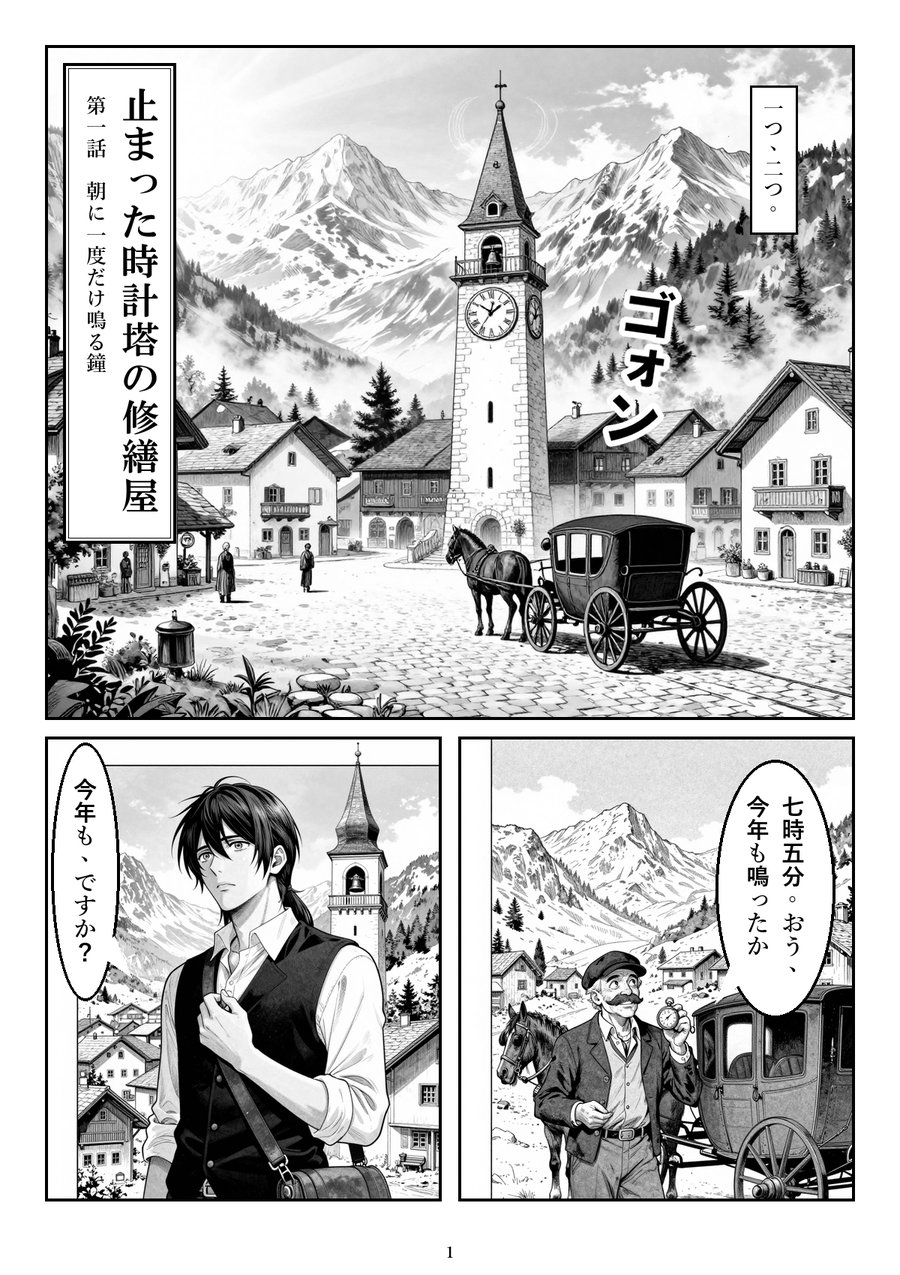
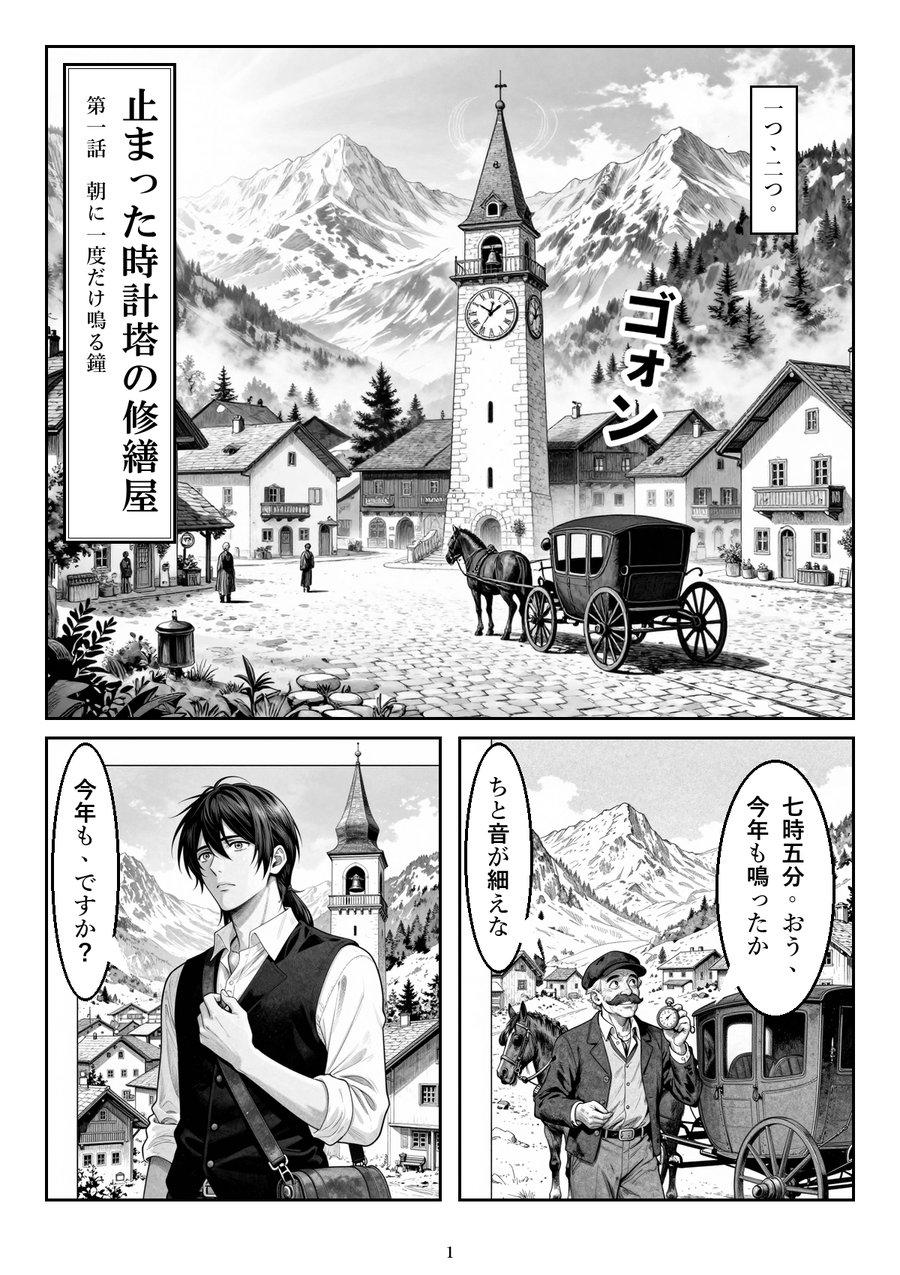
Request tips, attachments OK, pricing tiers (sample 1 page / quote), sample page restores foreshadowing line

Changed region(s): [[0.4978, 0.5812, 0.5911, 0.7647]]

diff --git a/index.html b/index.html
@@ -52,6 +52,7 @@ h2{font-size:30px;margin:0 0 20px}
 .steps b{display:block;font-size:18px;margin-bottom:4px}
 table.price{width:100%;border-collapse:collapse;background:#fff;border:2.5px solid var(--line)}
 table.price th,table.price td{border-bottom:1.5px solid #d6d3c9;padding:14px 12px;text-align:left;vertical-align:top}
+table.price th{width:9.5em}
 table.price td.yen{font-size:22px;font-weight:700;white-space:nowrap}
 table.price tr.free td.yen{color:var(--accent)}
 .small{font-size:14px;color:var(--sub)}
@@ -130,13 +131,13 @@ footer a{color:var(--sub)}
 </div></section>
 
 <section id="price"><div class="w">
-  <h2>料金（予定）</h2>
+  <h2>料金（予定・お見積り制）</h2>
   <table class="price">
     <tr class="free"><th>お試し（先着10名）</th><td class="yen">無料</td><td>原作の冒頭から1ページ（3〜5コマ）。白黒。</td></tr>
-    <tr><th>1ページ</th><td class="yen">1,500円</td><td>白黒・横読みのページ。セリフ入れ込み。</td></tr>
-    <tr><th>一話（8ページ前後の見込み）</th><td class="yen">12,000円</td><td>原作1話分（目安1万字まで）を、8ページ前後の見込みでまとめます。ページ数は内容で変わります。</td></tr>
+    <tr><th>有料サンプル（1ページ・受付開始前の予定）</th><td class="yen">1,500円</td><td>お好きな場面を1ページ（白黒・横読み）。お試しの後に、別の場面や絵柄を確かめたいときに。</td></tr>
+    <tr><th>2ページ以上・全話のご依頼（受付開始前の予定）</th><td class="yen">お見積り</td><td>原作の文字数と見込みのページ数、登場人物の数、ご要望（直しの回数・縦読み・カラー・お急ぎなど）を見て、作業の前にお見積りをお出しします。お見積りにご同意いただいてから作業を始めます。</td></tr>
   </table>
-  <p class="small">税込の予定額です。有料の受付はまだ始めていません。始めるときに、支払い方法と特定商取引法に基づく表記をこのページに載せます。</p>
+  <p class="small">税込の予定です。有料の受付はまだ始めていません。始めるときに、支払い方法と特定商取引法に基づく表記をこのページに載せます。当工房の1例では、原作約1万2千字のネームが8ページ分になりました（ページ数は内容で大きく変わります）。</p>
   <div class="box survey">
     <h3>参考：ココナラで調べた、人の作画による漫画化</h3>
     <ul>
@@ -152,10 +153,29 @@ footer a{color:var(--sub)}
   <h2>お試しの流れ</h2>
   <ol>
     <li>下のボタンから申し込む（メールアドレスと、作品の簡単な説明だけ）</li>
-    <li>こちらからメールで、原作の送り方をご案内します（冒頭5,000字まで）</li>
-    <li>1週間ほどで、1ページ分の画像をメールでお届けします（混み具合により前後します）</li>
+    <li>こちらからメールで、原作と設定の送り方をご案内します（ファイルの添付もできます）</li>
+    <li>1週間ほどで、冒頭の1ページ分の画像をメールでお届けします（混み具合により前後します）</li>
+    <li>続きをご希望なら、お見積りをお出しします（有料の受付開始後）</li>
     <li>ご希望の方だけ、このサイトの「お客様の作品」で紹介します（作品へのリンクも載せられます）</li>
   </ol>
+</div></section>
+
+<section id="request"><div class="w">
+  <h2>ご依頼のときにお願いしたいこと</h2>
+  <p>小説の漫画化でいちばん避けたいのは、あとで効いてくる伏線や、何気ない一言が抜け落ちることです。当工房の見本の制作時にも、御者の「ちと音が細えな」という一言を最初のネームで落としてしまい、作者の指摘で戻しました。この一言は、物語の大事な伏線だったからです。</p>
+  <div class="two">
+    <div class="box"><h3>おすすめ：全話まとめてのご依頼</h3><ul>
+      <li>漫画にするのが一部の話でも、できれば今ある全話の原稿をお送りください。全体を読んでから、伏線を落とさないネームを作ります</li>
+      <li>お試しで描くのは冒頭の1ページだけです。全話の原稿はお試しでも歓迎しますが、冒頭だけでもかまいません（全話のお送りは、主に有料のご依頼でのおすすめです）</li>
+      <li>何話分を何ページにしたいか、宣伝用か試し読みか、などの使い道も教えてください</li>
+    </ul></div>
+    <div class="box"><h3>あると助かるもの</h3><ul>
+      <li>キャラクター設定：年齢・髪・服・目印などの見た目、口調、人物どうしの関係</li>
+      <li>伏線のメモ：あとで回収する伏線、必ず残したいセリフや描写、まだ絵で見せたくないこと</li>
+      <li>設定資料・ラフ・参考の画像（お持ちの方だけ）</li>
+    </ul></div>
+  </div>
+  <p class="small">添付できるファイル：テキスト（.txt）・Word（.docx）・PDF・画像（.png・.jpg）。圧縮ファイル（.zip など）・実行ファイル・マクロ付きのファイルは開けません。メール1通あたり合計25MBまでです。</p>
 </div></section>
 
 <section id="fit"><div class="w">
@@ -181,7 +201,7 @@ footer a{color:var(--sub)}
     <li><b>細かい所が崩れることがあります。</b>手や小物はいくつか描いて良いものを選びますが、手描きと同じ精度ではありません。</li>
     <li><b>権利について：</b>お渡しした漫画は、宣伝や掲載などにお使いいただけます。ただし、AIで描いた部分に著作権が生じるかどうかは保証できません（文化庁「AIと著作権に関する考え方」では、人の創作的な関わりの程度で判断するとされています）。</li>
     <li><b>原作はご自身の作品に限ります。</b>他の方の作品や二次創作はお受けできません。</li>
-    <li><b>原稿の扱い：</b>ネームづくりのため、原稿の文章を Anthropic社（米国）の文章AI「Claude」に読み込ませます（入力を学習に使わない契約で利用）。絵は Hugging Face 上で公開されている画像AI（Z-Image）で描き、送るのは場面の説明（英語の短い指示）だけです。原稿の文章や、あなたのお名前・メールアドレスは送りません（登場人物の名前は、場面の説明に入ることがあります）。お預かりした原稿は作業以外に使わず、お届けから30日で削除します。</li>
+    <li><b>原稿の扱い：</b>ネームづくりのため、原稿の文章を Anthropic社（米国）の文章AI「Claude」に読み込ませます（入力を学習に使わない契約で利用）。絵は Hugging Face 上で公開されている画像AI（Z-Image）で描き、送るのは場面の説明（英語の短い指示）だけです。原稿の文章や、あなたのお名前・メールアドレスは送りません（登場人物の名前は、場面の説明に入ることがあります）。お送りいただいたメールと添付ファイルは、当工房の Gmail（Google のメールサービス）に保存されます。お預かりした原稿は作業以外に使わず、作業用の写しはお届けから30日で削除します。メールは最後のやりとりから1年で削除します。</li>
   </ul>
 </div></section>
 
@@ -205,7 +225,7 @@ footer a{color:var(--sub)}
   <h2>1ページ、無料で漫画にしてみませんか</h2>
   <p>開発中のため、先着10名さまに無料でお作りしています。</p>
   <a class="cta js-signup js-mail" href="mailto:endeavor0007@gmail.com">お試しを申し込む</a>
-  <p class="cta-note js-signup-note">メールで受け付けます。件名と、書いていただく3項目のひな形が入った状態で開きます</p>
+  <p class="cta-note js-signup-note">メールで受け付けます。件名と、書いていただく4項目のひな形が入った状態で開きます</p>
 </div></section>
 </main>
 
@@ -223,7 +243,7 @@ var SIGNUP_URL = "";
 var FORM_HREF = SIGNUP_URL ? SIGNUP_URL + (SIGNUP_URL.indexOf("?") < 0 ? "?" : "&") + "usp=pp_url" : "";
 // フォームが無い間は、件名と本文のひな形入りのメールを開く
 var MAIL = "mailto:endeavor0007@gmail.com?subject=" + encodeURIComponent("まんが化工房 お試しの申し込み") +
-  "&body=" + encodeURIComponent("・ペンネーム：\n・作品の題名と、掲載している場所（URLがあれば）：\n・漫画にしたい場面（冒頭／特定の話など）：\n\n※原稿はまだ送らないでください。送り方をこちらからご案内します。");
+  "&body=" + encodeURIComponent("・ペンネーム：\n・作品の題名と、掲載している場所（URLがあれば）：\n・作品の長さ（全何話・合計何字くらい）：\n・漫画にしたい場面（冒頭／特定の話など）と使い道（宣伝・試し読みなど）：\n\n※原稿や設定は、こちらから送り方をご案内した後にお送りください。");
 document.querySelectorAll(".js-mail").forEach(function (a) { a.href = MAIL; });
 document.querySelectorAll(".js-signup").forEach(function (a) {
   if (FORM_HREF) { a.href = FORM_HREF; a.target = "_blank"; a.rel = "noopener"; }

diff --git a/privacy.html b/privacy.html
@@ -16,18 +16,19 @@ li{margin-bottom:8px}
 <h1>プライバシーポリシー</h1>
 <p>まんが化工房（個人運営。以下「当工房」）は、個人情報とお預かりした原稿を次のとおり扱います。</p>
 <h2>1. 取得する情報</h2>
-<p>お申し込みでいただくメールアドレス・ペンネーム（任意）・作品の説明・有料での利用の意向。お試しや依頼の際にお預かりする原稿。</p>
+<p>お申し込みでいただくメールアドレス・ペンネーム（任意）・作品の説明・有料での利用の意向。お試しや依頼の際にお預かりする原稿・キャラクター設定・伏線のメモ・設定資料や参考の画像（メール本文または添付ファイル）。</p>
 <h2>2. 利用目的</h2>
 <p>お試しと依頼の作業、そのご連絡、サービス改善の検討のためだけに使います。</p>
 <h2>3. 原稿・漫画・メールの保管期間</h2>
-<p>お預かりした原稿は漫画化の作業以外に使わず、お届けから30日で削除します。お申し込みとやりとりのメールは、最後のやりとりから1年で削除します。できあがった漫画をこのサイトの「お客様の作品」で紹介するのは、メールで「紹介OK」のお返事をいただいた場合だけです。その場合に表示するのは、漫画の画像・ご指定の表示名（ペンネーム・作品名）・ご指定のリンク先だけで、メールアドレスや本名は表示しません。取り下げのご依頼があれば、速やかに消します（紹介の記録は、取り下げから1年で削除します）。紹介したページは公開されるため、検索サイトなどで見つかることがあります。掲載中に第三者が他所へ転載した分と、リンク先のサイトの内容・取り扱いについては、当工房では責任を負えません。</p>
+<p>お預かりした原稿・設定・添付ファイルは漫画化の作業以外に使わず、作業用の写しはお届けから30日で削除します。お申し込みとやりとりのメール（添付ファイルを含む）は、最後のやりとりから1年で削除します。できあがった漫画をこのサイトの「お客様の作品」で紹介するのは、メールで「紹介OK」のお返事をいただいた場合だけです。その場合に表示するのは、漫画の画像・ご指定の表示名（ペンネーム・作品名）・ご指定のリンク先だけで、メールアドレスや本名は表示しません。取り下げのご依頼があれば、速やかに消します（紹介の記録は、取り下げから1年で削除します）。紹介したページは公開されるため、検索サイトなどで見つかることがあります。掲載中に第三者が他所へ転載した分と、リンク先のサイトの内容・取り扱いについては、当工房では責任を負えません。</p>
 <h2>4. 作業の委託先と外国への提供</h2>
 <p>作業のため、次の外部サービスを使います。</p>
 <ul>
+<li>Google LLC（米国）のメールサービス「Gmail」：お申し込みとやりとりのメール、添付ファイルの受け取りと保存に使います。</li>
 <li>Anthropic, PBC（米国）の文章AI「Claude」：ネームづくりのため、原稿の文章を読み込ませます。入力を学習に使わない契約で利用します。</li>
 <li>Hugging Face, Inc.（米国）上で公開されている画像AI（Z-Image）：絵を描くため、場面の説明（英語の短い指示）だけを送ります。原稿の文章や、ご依頼者のお名前・メールアドレスは送りません（登場人物の名前は、場面の説明に入ることがあります）。</li>
 </ul>
-<p>原稿の文章は、上記のとおり外国（米国）にある事業者に、作業の委託として提供します。米国には、日本の個人情報保護法と同じ内容の包括的な法律はありません。Anthropic は個人情報の取り扱いの方針を公表しています（<a href="https://www.anthropic.com/legal/privacy" rel="noopener" target="_blank">Anthropic のプライバシーポリシー</a>）。原稿には、ご自身や他の方の個人情報を書かないでください。</p>
+<p>メールと添付ファイル、原稿の文章は、上記のとおり外国（米国）にある事業者（Google・Anthropic）に、保存と作業の委託として提供します。米国には、日本の個人情報保護法と同じ内容の包括的な法律はありません。画像AIを動かす Hugging Face（米国）にも、場面の説明（登場人物の名前が入ることがあります）を送ります。各社は個人情報の取り扱いの方針を公表しています（<a href="https://policies.google.com/privacy?hl=ja" rel="noopener" target="_blank">Google のプライバシーポリシー</a>・<a href="https://www.anthropic.com/legal/privacy" rel="noopener" target="_blank">Anthropic のプライバシーポリシー</a>）。原稿には、ご自身や他の方の個人情報を書かないでください。</p>
 <h2>5. アクセスの集計と外部の書体</h2>
 <p>ページの改善のため、GoatCounter で訪問数を集計します。個人を特定する情報は集めません。また、表示に Google Fonts（Google LLC）の書体を使うため、ページを開くと Google のサーバーと通信します。</p>
 <h2>6. 第三者への提供</h2>
